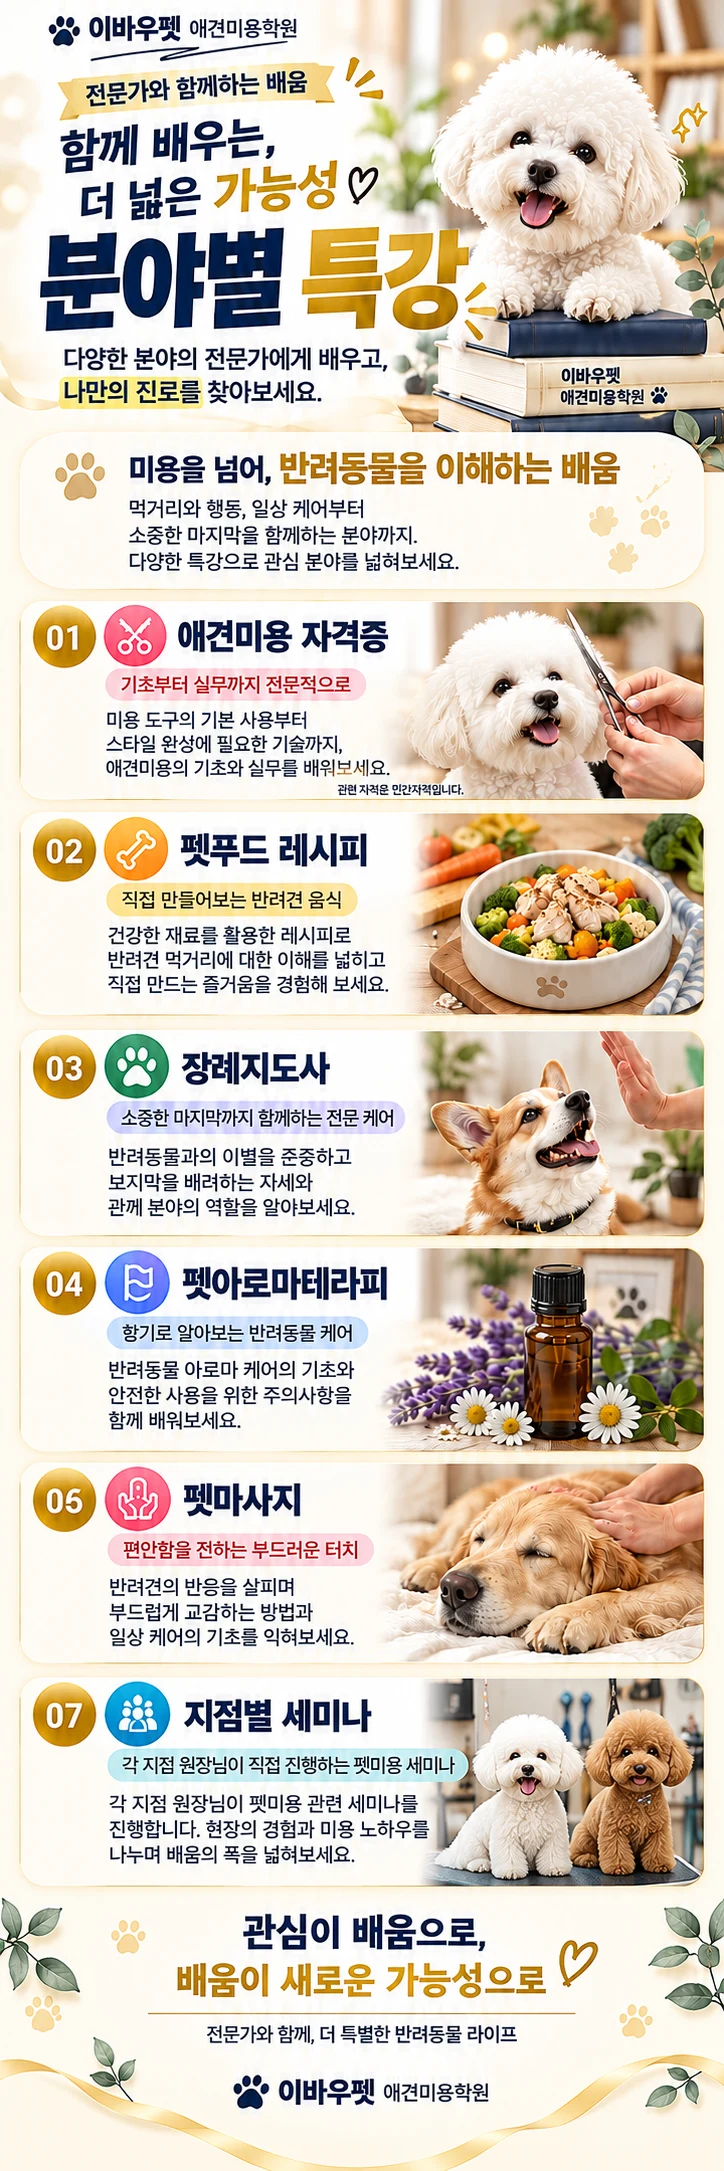
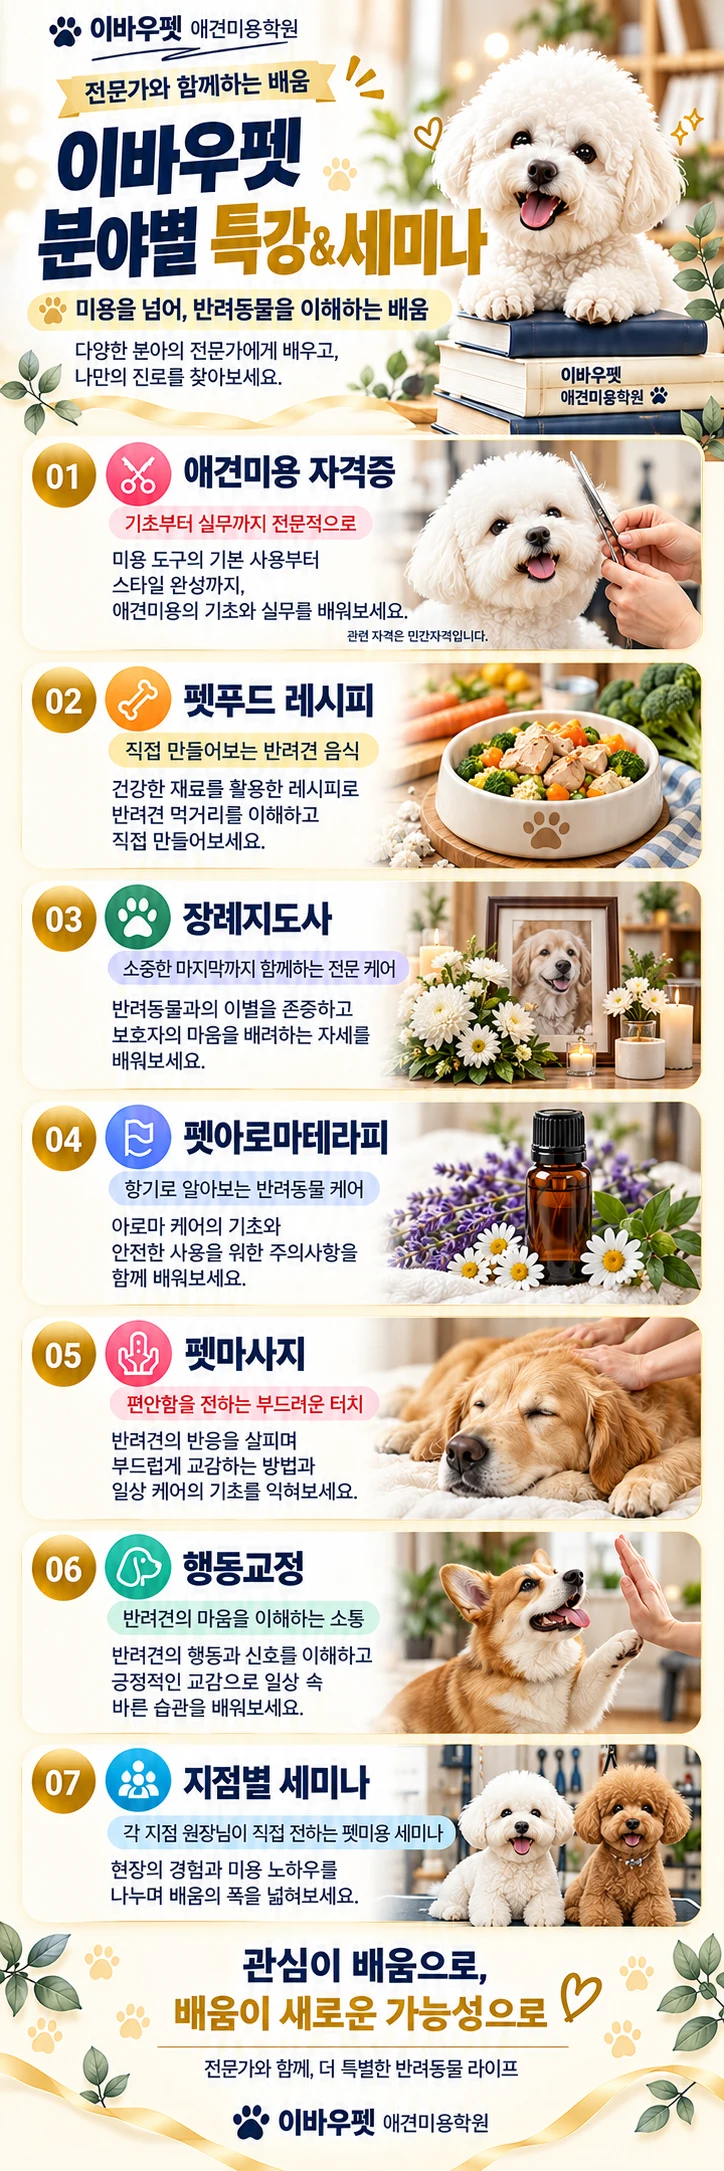
fix: 무료특강 상세 이미지 수정본 교체(06 행동교정 추가)

diff --git a/app/free-lecture/page.tsx b/app/free-lecture/page.tsx
@@ -3,7 +3,7 @@ import PromoLanding from "@/components/PromoLanding";
 
 export const metadata: Metadata = {
   title: "무료특강 · 분야별 세미나 | 애견미용학원 대전점",
-  description: "애견미용 자격증, 펫푸드 레시피, 장례지도사, 펫아로마테라피, 펫마사지, 지점별 세미나까지 — 이바우펫 분야별 특강.",
+  description: "애견미용 자격증, 펫푸드 레시피, 장례지도사, 펫아로마테라피, 펫마사지, 행동교정, 지점별 세미나까지 — 이바우펫 분야별 특강.",
 };
 
 export default function FreeLecturePage() {
@@ -11,7 +11,7 @@ export default function FreeLecturePage() {
     <PromoLanding
       name="무료특강 · 분야별 특강"
       detailSrc="/images/promo/free-lecture-detail.webp"
-      detailAlt="함께 배우는, 더 넓은 가능성 — 분야별 특강: 애견미용 자격증(민간자격), 펫푸드 레시피, 장례지도사, 펫아로마테라피, 펫마사지, 각 지점 원장님이 직접 진행하는 지점별 세미나"
+      detailAlt="이바우펫 분야별 특강&세미나 — 미용을 넘어, 반려동물을 이해하는 배움: 애견미용 자격증(민간자격), 펫푸드 레시피, 장례지도사, 펫아로마테라피, 펫마사지, 행동교정, 각 지점 원장님이 직접 진행하는 지점별 세미나"
       consultLabel="📚 무료특강 신청 상담하기"
     />
   );
